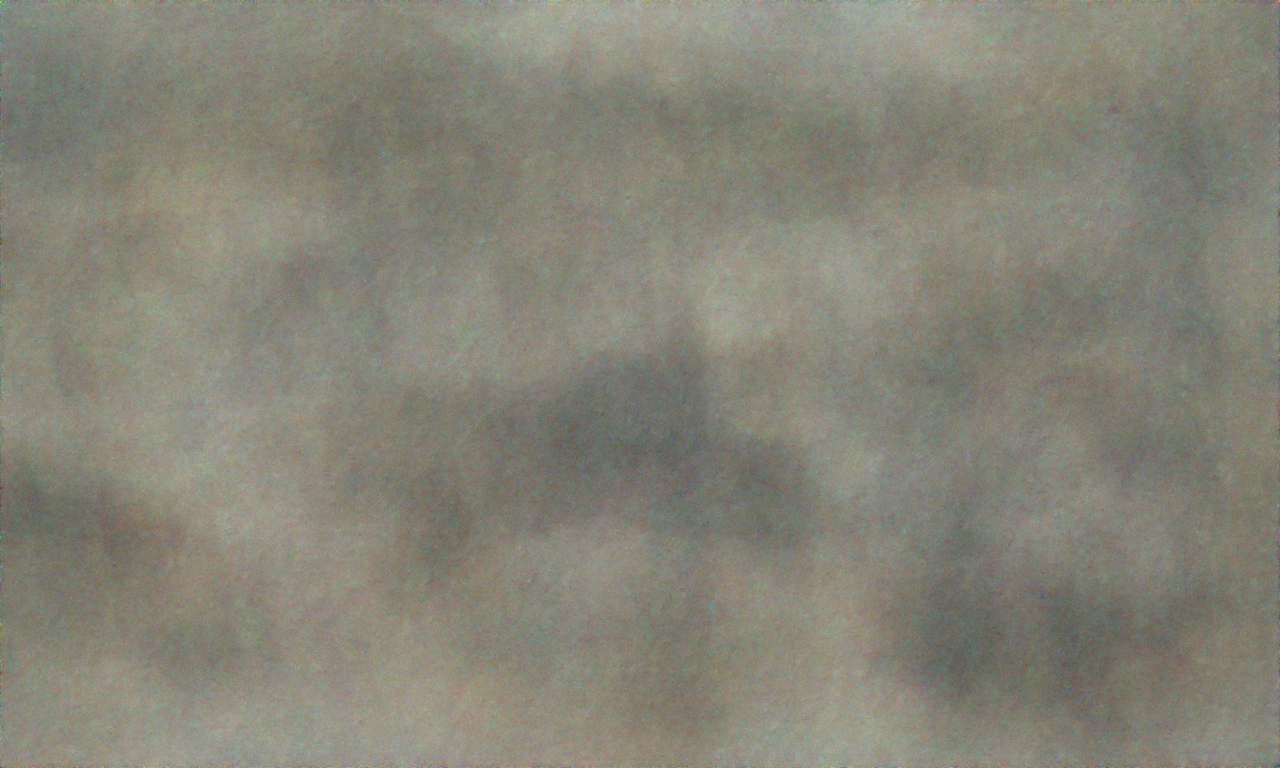
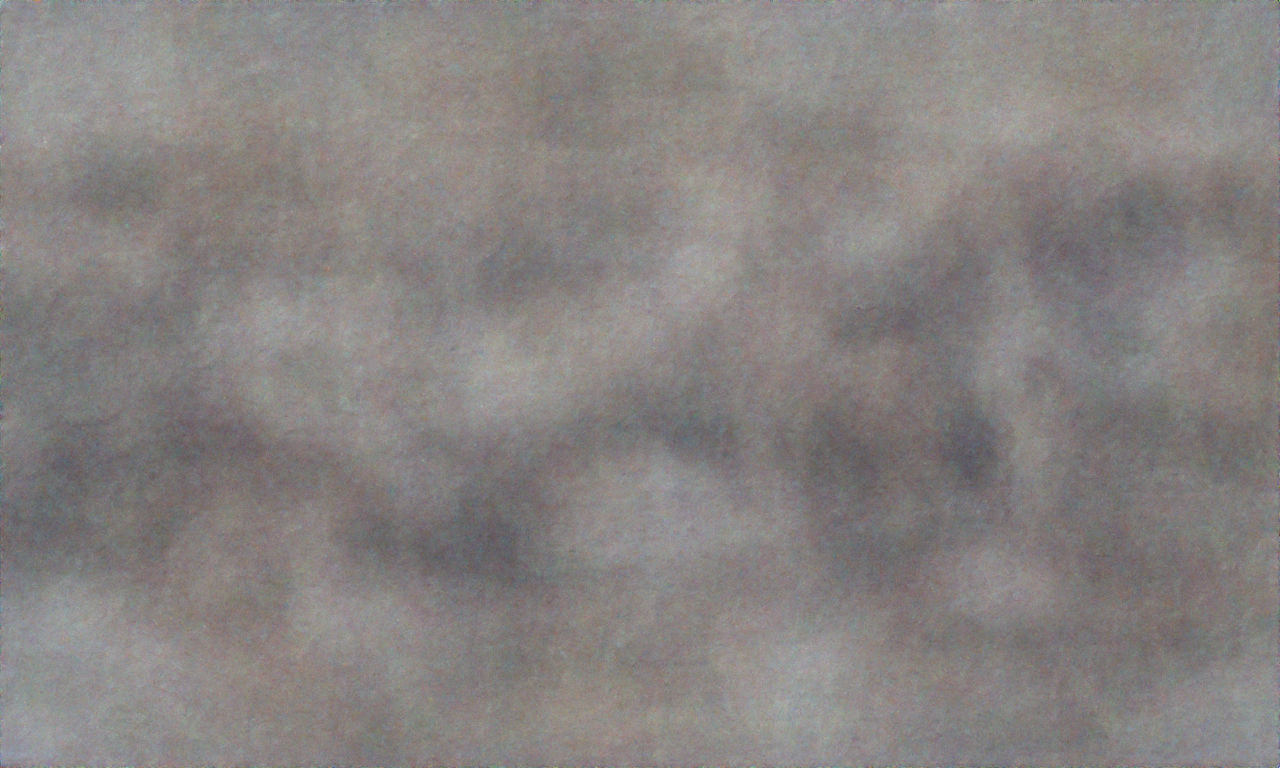
mkoipl

diff --git a/main.py b/main.py
@@ -1232,8 +1232,8 @@ text_prompts = [
         "crowd of tourists taking photographs:4",
 "a realistic magical attraction surrounded by tourists:4",
 "located in a town square",
-"optical illusion:9",
-"by Zdzisław Beksiński:6",
+"optical illusion:19",
+"by Zdzisław Beksiński and Igor Morski:6",
          "by James Paick:8",
          "by Alejandro Burdisio:5"
 ]
